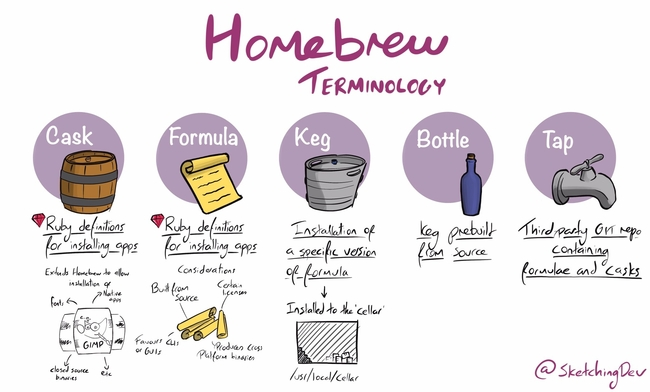
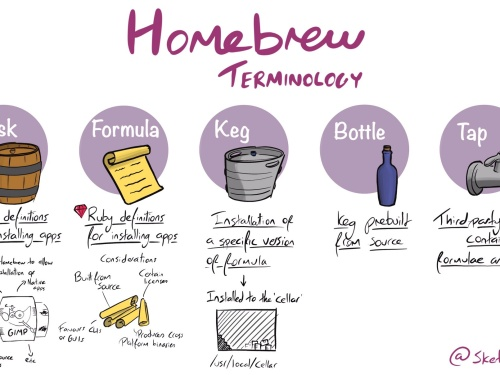
WIP

Changed region(s): [[0.0, 0.0293, 1.0, 0.9973], [0.81, 0.9093, 1.0, 0.9973]]

diff --git a/_layouts/sketchnote.html b/_layouts/sketchnote.html
@@ -2,7 +2,16 @@
 layout: default
 ---
 
+<div class="ui header">
+    <div class="site-name">
+        {{ site.title }}
+    </div>
+</div>
+
 {% include breadcrumbs.html %}
+
+<div class="ui divider"></div>
+
 
 <article role="main" class="post" itemscope itemtype="http://schema.org/CreativeWork">
     {% if page.title %}

diff --git a/_layouts/post.html b/_layouts/post.html
@@ -2,7 +2,15 @@
 layout: default
 ---
 
+<div class="ui header">
+    <div class="site-name">
+        {{ site.title }}
+    </div>
+</div>
+
 {% include breadcrumbs.html %}
+
+<div class="ui divider"></div>
 
 <article role="main" class="post" itemscope itemtype="http://schema.org/CreativeWork">
     {% if page.title %}

diff --git a/assets/css/main.css b/assets/css/main.css
@@ -6,7 +6,7 @@ body {
     font-size: 18px;
     font-family: Heebo, "Hiragino Sans GB", "WenQuanYi Micro Hei", "Microsoft YaHei Light", sans-serif;
     color: #404040;
-    margin-top: 40px;
+    margin-top: 25px;
 }
 
 .ui.container {

diff --git a/_includes/topnav.html b/_includes/topnav.html
@@ -12,7 +12,6 @@
       </a>
       {% endfor %}
     </nav>
-
   </div>
 </h1>
 

diff --git a/README.md b/README.md
@@ -11,10 +11,9 @@ bundle exec jekyll serve
 
 ## Resizing sketchnote images
 
-```shell
-sips -Z 640 <input> --out <output>
-```
-
+1. Load [Croppola](https://croppola.com/)
+2. Aspect ratio 4:3
+3. Crop width: 500px
 
 ### Problem installing racc
 
